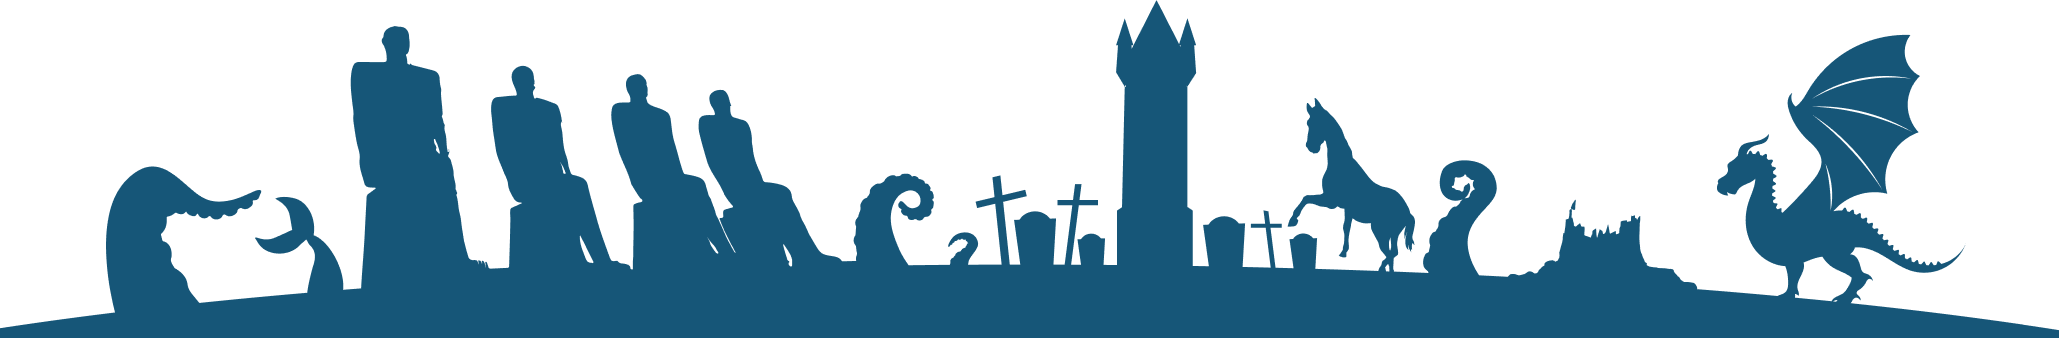
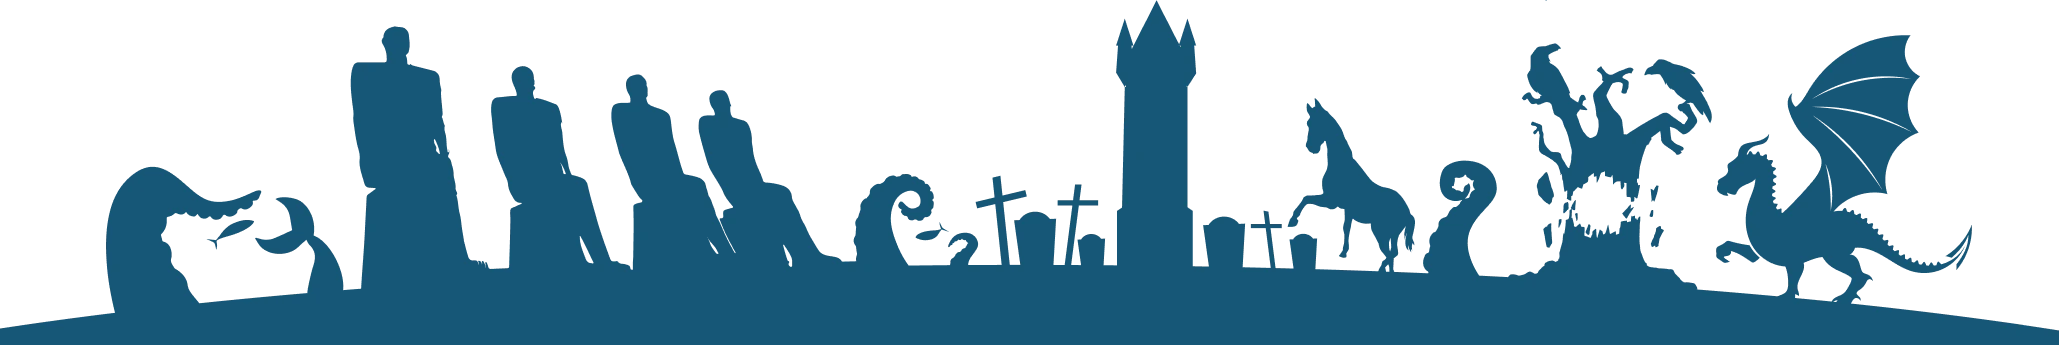
Footer updated

diff --git a/src/components/Footer-section.vue b/src/components/Footer-section.vue
@@ -1,31 +1,41 @@
 <template>
   <footer class="w-full bg-[#1A202C] pt-32 flex flex-col items-center justify-center text-center">
-    <img class="w-full h-full" src="../assets/img/footer2.webp" alt="Footer Image">
+    <img class="w-full h-full" src="../assets/img/footer.webp" alt="Footer Image">
     
     <div class="bg-[#165678] w-full grid grid-cols-12 gap-4 justify-center pb-10">
       
       <div class="col-span-12 container mx-auto sm:col-span-6 sm:order-2 order-1 flex justify-center items-center">
-        <img src="../assets/img/spons.png" alt="Sponsors">
+        <img class="w-96 h-auto" src="../assets/img/sponsors.webp" alt="Sponsors">
       </div>
       
       
-      <div class="col-span-12 sm:col-span-3 sm:order-3 order-2 flex flex-col justify-center items-center">
-
-        <a class="instagram-gradient" target="_blank" href="https://www.instagram.com/fantasyfestivalen"><i class="fa-brands fa-instagram text-5xl"></i></a>
-        <p class="text-3xl">Follow us on Instagram</p>
+      <div class="col-span-12 sm:col-span-3 sm:order-3 order-2 flex flex-col justify-center items-center pt-5">
+        <p class="text-3xl pb-10">Follow us on social media</p>
+        <a class="instagram-gradient" target="_blank" href="https://www.instagram.com/fantasyfestivalen"><i class="fa-brands fa-instagram text-4xl md:text-5xl"></i></a>
+        <a href="https://www.instagram.com/fantasyfestivalen" class="text-2xl hover:underline">Follow us on Instagram</a>
        
 
         
-        <a class="facebook-gradient" target="_blank" href="https://www.facebook.com/fantasyfestivalen/?locale=da_DK"><i class="fa-brands fa-facebook text-5xl pt-10"></i></a>
-        <p class="text-3xl">Follow us on Facebook</p>
+        <a class="facebook-gradient" target="_blank" href="https://www.facebook.com/fantasyfestivalen/?locale=da_DK"><i class="fa-brands fa-facebook text-4xl md:text-5xl pt-10"></i></a>
+        <a href="https://www.facebook.com/fantasyfestivalen/?locale=da_DK" class="text-2xl hover:underline">Follow us on Facebook</a>
         
 
       </div>
       
       
-      <div class="col-span-12 sm:col-span-3 sm:order-1 order-3 flex justify-center items-center">
-        <p class="text-3xl">Contact</p>
+      <div class="col-span-12 flex-col sm:col-span-3 sm:order-1 order-3 flex justify-center items-center pt-5">
+        <p class="text-3xl pb-10">Contact us</p>
+        <i class="fa-solid fa-phone-volume text-4xl"></i>
+        <p class="md:text-3xl pb-5">76 16 20 00</p>
+
+        <a href="/faq"><i class="fa-solid fa-envelope text-4xl hover:text-slate-300"></i></a>
+        <a href="/faq" class="text-2xl pb-5 hover:underline">Write us an email</a>
+        
       </div>
+    </div>
+  
+    <div class="w-full container mx-auto bg-[#1A202C] text-white text-center py-2">
+      <p class="text-sm">Fantasy Quest is an enchanting experience of the Fantasy Festival© <br> All rights reserved. © 2024</p>
     </div>
   </footer>
 </template>
@@ -39,7 +49,7 @@
   animation-duration: 1000;
 }
 .instagram-gradient:hover {
-  background: linear-gradient(45deg, #405DE6, #5851DB, #833AB4, #C13584, #E1306C, #FD1D1D);
+  background: linear-gradient(90deg, #405DE6, #5851DB, #833AB4, #C13584, #E1306C, #FD1D1D);
   -webkit-background-clip: text;
   background-clip: text;
   -webkit-text-fill-color: transparent;
